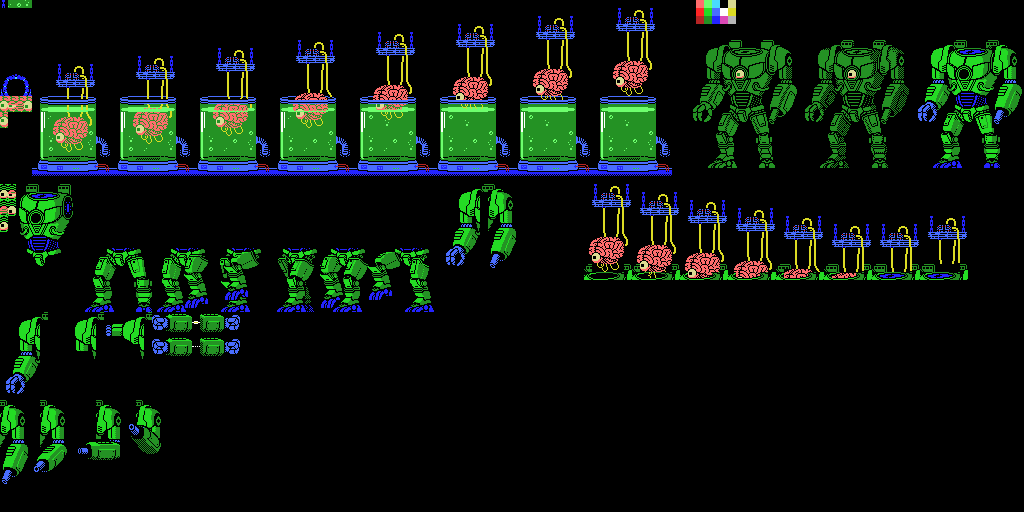
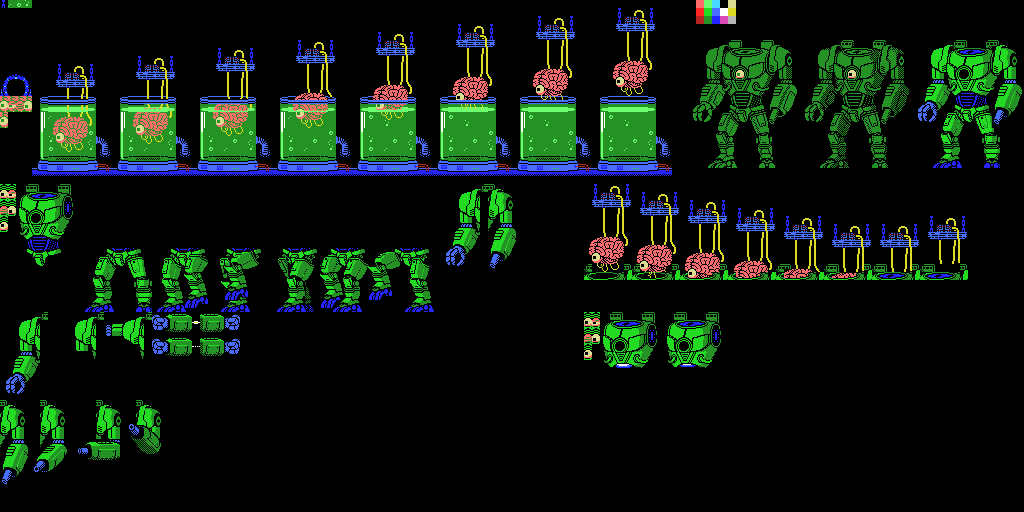
started to work on boss 8 phase 3

Changed region(s): [[0.5625, 0.5938, 0.7188, 0.7188]]

diff --git a/java/src/xspelunker2/Bosses.java b/java/src/xspelunker2/Bosses.java
@@ -1086,28 +1086,24 @@ public class Bosses {
         String boss5TilesPath = "data/boss8.png";
         boolean availableTiles_phase1[] = new boolean[256];
         boolean availableTiles_phase1b_12[] = new boolean[256];
-//        boolean availableTiles_phase1b_3[] = new boolean[256];
         boolean availableTiles_phase2_12a[] = new boolean[256];
         boolean availableTiles_phase2_12b[] = new boolean[256];
         boolean availableTiles_phase2_3[] = new boolean[256];
         int collision_phase1[] = new int[256];
         int collision_phase1b_12[] = new int[256];
-//        int collision_phase1b_3[] = new int[256];
         int collision_phase2_12a[] = new int[256];
         int collision_phase2_12b[] = new int[256];
         int collision_phase2_3[] = new int[256];
         findAvailableBossTiles(bossBaseTilesPath, availableTiles_phase1, collision_phase1, alien_boss_collision, true);
         findAvailableBossTiles(bossBaseTilesPath, availableTiles_phase1b_12, collision_phase1b_12, alien_boss_collision, true);
-//        findAvailableBossTiles(bossBaseTilesPath, availableTiles_phase1b_3, collision_phase1b_3, alien_boss_collision, true);
         findAvailableBossTiles(bossBaseTilesPath, availableTiles_phase2_12a, collision_phase2_12a, alien_boss_collision, true);
         findAvailableBossTiles(bossBaseTilesPath, availableTiles_phase2_12b, collision_phase2_12b, alien_boss_collision, true);
         findAvailableBossTiles(bossBaseTilesPath, availableTiles_phase2_3, collision_phase2_3, alien_boss_collision, true);
         BufferedImage baseImage_phase1 = ImageIO.read(new File(bossBaseTilesPath));        
         BufferedImage baseImage_phase1b_12 = ImageIO.read(new File(bossBaseTilesPath));        
-//        BufferedImage baseImage_phase1b_3 = ImageIO.read(new File(bossBaseTilesPath));        
         BufferedImage baseImage_phase2_12a = ImageIO.read(new File(bossBaseTilesPath));        
         BufferedImage baseImage_phase2_12b = ImageIO.read(new File(bossBaseTilesPath));        
-        BufferedImage baseImage_phase2_3 = ImageIO.read(new File(bossBaseTilesPath));        
+        BufferedImage baseImage_phase2_3 = ImageIO.read(new File(bossBaseTilesPath));
 
         List<int[]> nameTableBoxes = new ArrayList<>();
         nameTableBoxes.add(new int[]{0, 0, 672, 176});  // brain in a vat
@@ -1122,6 +1118,7 @@ public class Bosses {
         nameTableBoxes.add(new int[]{0, 184, 520, 184 + 72});  // suit (banks 1-2) (common)
         nameTableBoxes.add(new int[]{0, 312, 520, 312 + 72});  // suit (banks 1-2) (left arm)
         nameTableBoxes.add(new int[]{0, 72, 32, 96});  // teleporter
+        nameTableBoxes.add(new int[]{600, 312, 728, 368});  // phase 3 suit core
         List<int[][]> nametables_phase2_12a = addBossTilesInGapsForBoxes(nameTableBoxes, baseImage_phase2_12a, boss5TilesPath, availableTiles_phase2_12a, collision_phase2_12a, false, false);
         nameTableBoxes.clear();
         nameTableBoxes.add(new int[]{0, 184, 520, 184 + 72});  // suit (banks 1-2) (common)
@@ -1233,6 +1230,10 @@ public class Bosses {
         addNameTable(nametables_phase2_12b.get(1), 4, 0, 9, 9, nameTableData);  // right arm 1 (5x9)
         addNameTable(nametables_phase2_12b.get(1), 9, 0, 16, 8, nameTableData);  // right arm 2 (7x8)
         addNameTable(nametables_phase2_12b.get(1), 16, 0, 21, 7, nameTableData);  // right arm 3 (5x7)        
+
+        // phase 3 core:
+        addNameTable(nametables_phase2_12a.get(3), 0, 0, 8, 7, nameTableData);  // 8x7
+        addNameTable(nametables_phase2_12a.get(3), 8, 0, 16, 7, nameTableData);  // 8x7
         
         System.out.println("name tables: " + nameTableData.size() + " bytes");
         Z80Assembler.dataToBinary(nameTableData, "src/autogenerated/boss8-nametables.bin");
